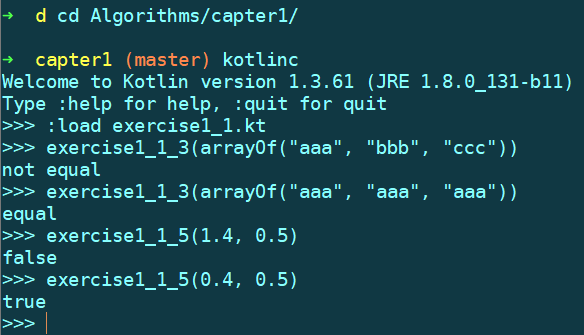
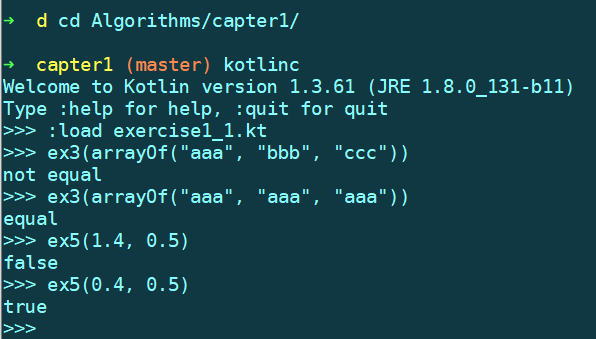
优化了函数名称及文档

diff --git a/capter1/exercise1_1.kt b/capter1/exercise1_1.kt
@@ -1,5 +1,5 @@
 //判断数组中的所有值是否相同
-fun exercise1_1_3(args: Array<String>) {
+fun ex3(args: Array<String>) {
     fun compare(): Boolean {
         if (args.size == 0) return false
         var start = args[0]
@@ -16,7 +16,7 @@ fun exercise1_1_3(args: Array<String>) {
 }
 
 //判断两个数是否都在0和1之间
-fun exercise1_1_5(x: Double, y: Double) {
+fun ex5(x: Double, y: Double) {
     fun between0And1(num: Double): Boolean = num > 0 && num < 1
     if (between0And1(x) && between0And1(y)) {
         println("true")
@@ -26,7 +26,7 @@ fun exercise1_1_5(x: Double, y: Double) {
 }
 
 //求打印结果，个人感觉毫无意义
-fun exercise1_1_7a() {
+fun ex7a() {
     var t = 9.0f
     while (java.lang.Math.abs(t - 9.0f / t) > 0.001f) {
         t = (9.0f / t + t) / 2.0f
@@ -34,7 +34,7 @@ fun exercise1_1_7a() {
     println(t)
 }
 
-fun exercise1_1_7b() {
+fun ex7b() {
     var sum = 0
     for (i in 1 until 1000) {
         for (j in 0 until i) {
@@ -44,7 +44,7 @@ fun exercise1_1_7b() {
     println(sum)
 }
 
-fun exercise1_1_7c() {
+fun ex7c() {
     var sum = 0
     var i = 1
     while (i < 1000) {
@@ -57,7 +57,7 @@ fun exercise1_1_7c() {
 }
 
 //将整数（所有值，无论正负）的二进制用String表示
-fun exercise1_1_9(num: Int) {
+fun ex9(num: Int) {
     //将正整数的二进制用String表示
     fun getPositiveIntegerBinaryString(positiveNum: Int): String {
         require(positiveNum >= 0)
@@ -82,7 +82,7 @@ fun exercise1_1_9(num: Int) {
 }
 
 //交换二维数组的行列
-fun exercise1_1_13(array: Array<Array<Int>>) {
+fun ex13(array: Array<Array<Int>>) {
     array.forEach {
         it.forEach {
             print(it)
@@ -113,7 +113,7 @@ fun exercise1_1_13(array: Array<Array<Int>>) {
 }
 
 //接收整形参数N，返回不大于log2 N 的最大整数
-fun exercise1_1_14(N: Int) {
+fun ex14(N: Int) {
     require(N > 0)
     fun power(count: Int): Int {
         require(count >= 0)
@@ -143,14 +143,14 @@ fun exercise1_1_14(N: Int) {
 }
 
 //返回一个大小为M的数组，第i个元素的值为参数数组source中i出现的次数，原理类似于Java中的BitSet
-fun exercise1_1_15(M: Int, source: Array<Int>): Array<Int> {
+fun ex15(M: Int, source: Array<Int>): Array<Int> {
     val result = Array<Int>(M) { 0 }
     for (i in source) {
         if (i >= M) {
             println("The value in the source array should not be greater than $M")
             continue
         }
-        result[i] = result[i] + 1
+        result[i]++
     }
     println("source=${source.joinToString { it.toString() }}")
     println("result=${result.joinToString { it.toString() }}")
@@ -158,8 +158,8 @@ fun exercise1_1_15(M: Int, source: Array<Int>): Array<Int> {
     return result
 }
 
-//求exercise1_1_16(6)运行结果
-fun exercise1_1_16(n: Int): String {
+//求ex16(6)运行结果
+fun ex16(n: Int): String {
     if (n <= 0) return ""
-    return exercise1_1_16(n - 3) + n + exercise1_1_16(n - 2) + n
+    return ex16(n - 3) + n + ex16(n - 2) + n
 }

diff --git a/README.md b/README.md
@@ -1,6 +1,12 @@
 # 《算法（第4版）》课后练习 
 
-**申明：所有代码未经过严谨的测试，也未参考过标准答案，不保证Bug Free，自测通过，而且对部分练习进行了微调或扩展，仅供参考。**
+**申明：所有代码未经过严谨的测试，自测通过，不保证Bug Free，而且对部分练习进行了微调或扩展，仅供参考。**
+
+> 发现了两个比较完整的仓库，每节做完后会和他们的实现方式对比、优化
+>
+> [国内作品，内容较完整](https://github.com/jimmysuncpt/Algorithms)
+>
+> [国外早期作品，只有部分题目](https://github.com/aistrate/AlgorithmsSedgewick)
 
 使用`kotlin`语言编写，因为我是一位`Android`开发，擅长`java`和`kotlin`，其他语言也会一些，但是不熟练，所以就在这两门语言中选一种。又因为`java`语法太啰嗦，无论是写还是测试都很麻烦，`kotlin`自带的交互式命令行工具让编译和测试都非常方便，我常用的测试方法如下：
 
@@ -13,3 +19,4 @@
 ![InteractiveCommandLineTool](image/InteractiveCommandLineTool.png)
 
 先切换到要测试的文件目录下，使用`kotlinc`命令就可以进入交互式命令行工具，如果没有将`kotlinc`加入环境变量中，需要输入完整路径，使用`:load <filename>`命令可以将`.kt`文件加载到运行环境中，类似于`js`或`python`等脚本语言，省去了编译命令，非常方便，当然，如果文件中有语法错误也会导致编译失败，提示相应错误信息，然后就可以直接调用定义的顶层函数了，使用不同的参数多次调用，可以很方便的测试各种边界条件。
+
